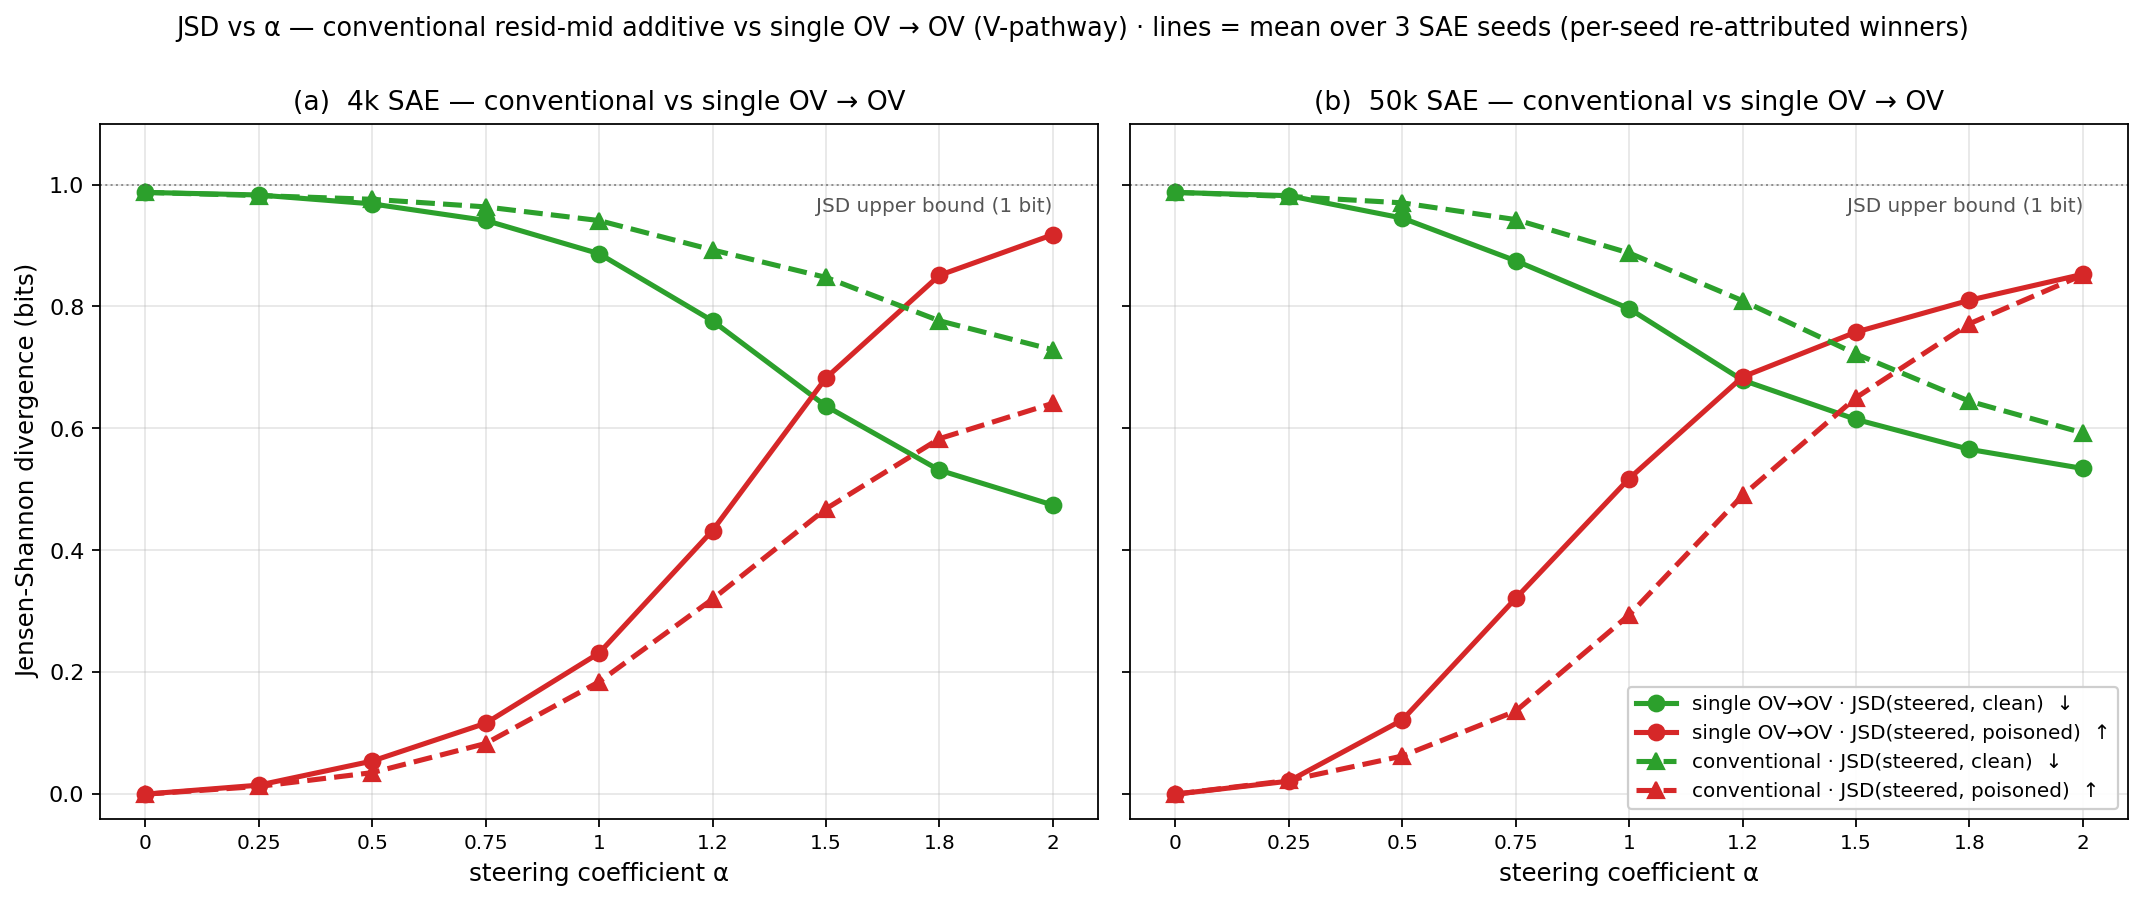
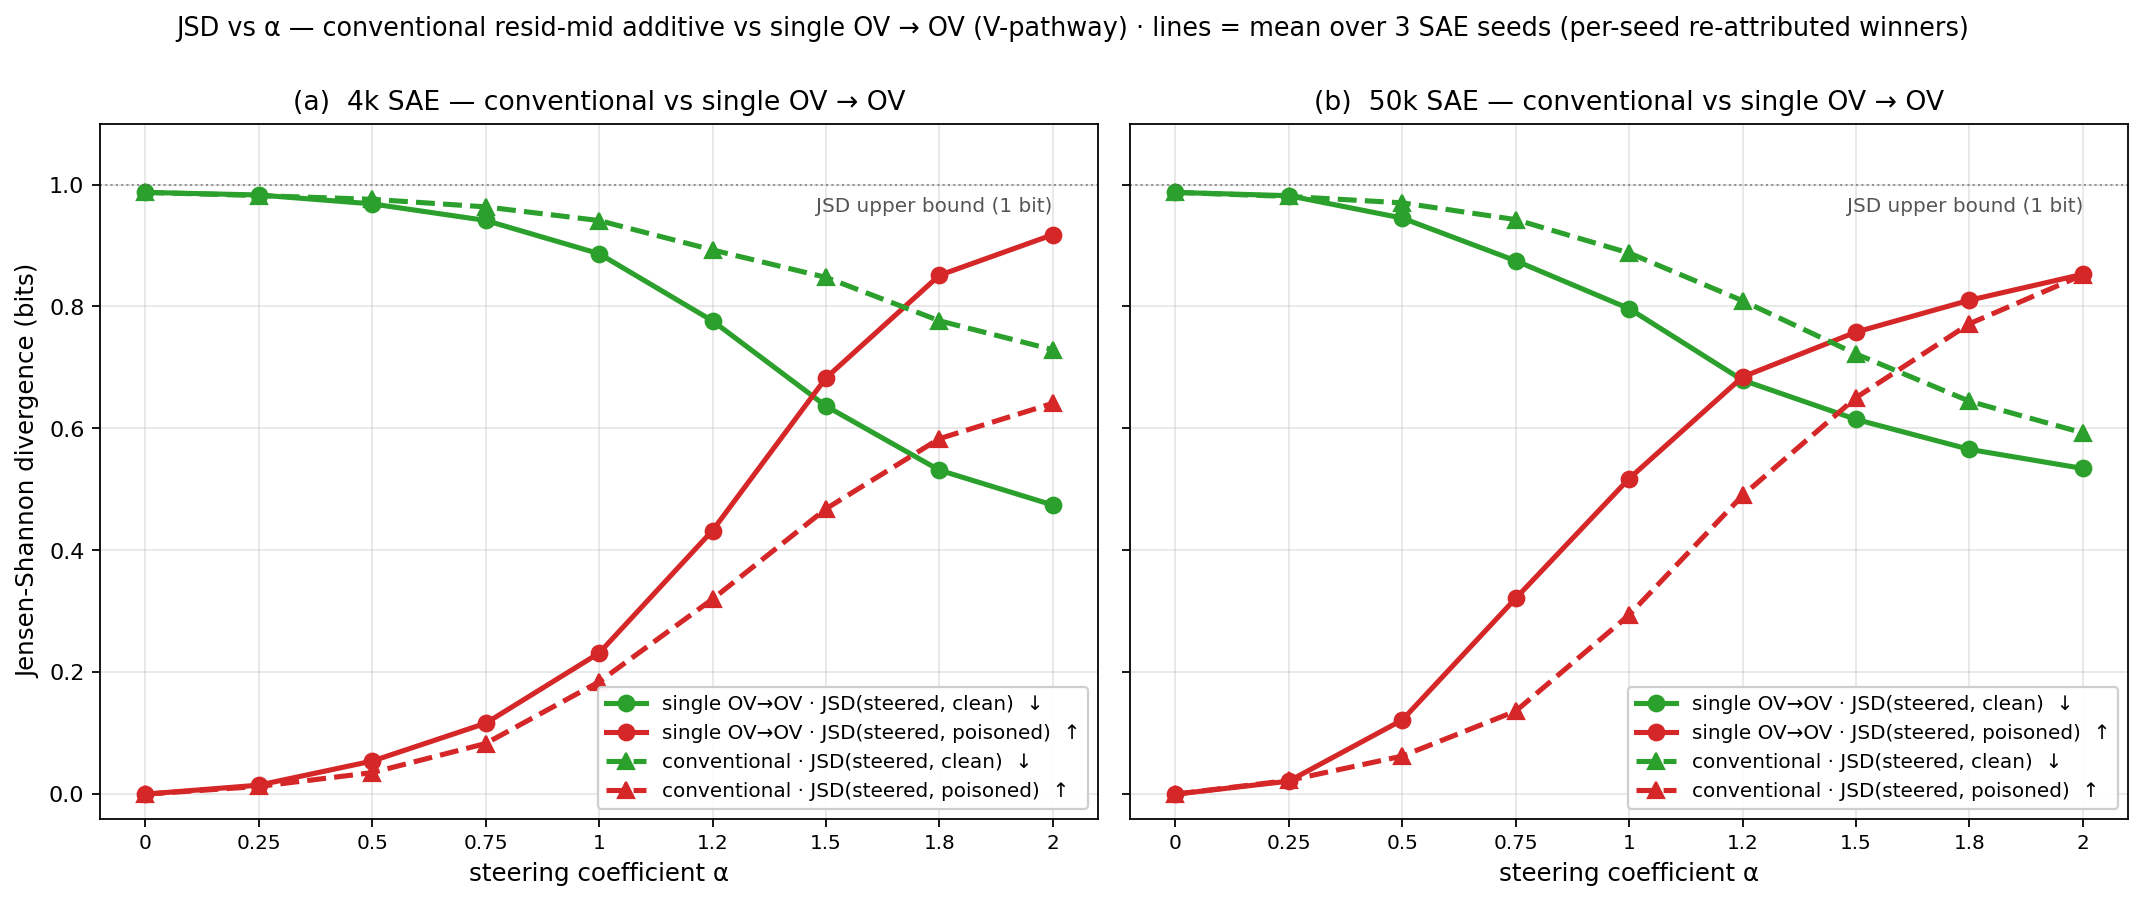
plot_jsd_overlay: legend in bottom-right of each panel

Changed region(s): [[0.2812, 0.745, 0.5, 0.9002]]

diff --git a/ketan_repl/scripts/plot_jsd_overlay.py b/ketan_repl/scripts/plot_jsd_overlay.py
@@ -79,15 +79,9 @@ def main() -> None:
         ax.set_xticks(alphas)
         ax.set_xticklabels([f"{a:.2g}" for a in alphas], fontsize=9)
         ax.set_xlabel("steering coefficient α", fontsize=11)
-        # legend handled once on axes[1] below — keep panels uncluttered
-        pass
+        ax.legend(loc="lower right", fontsize=9, frameon=True, framealpha=0.95)
 
     axes[0].set_ylabel("Jensen-Shannon divergence (bits)", fontsize=11)
-
-    # Single shared legend, anchored to the bottom-right corner of the right panel.
-    handles, labels = axes[0].get_legend_handles_labels()
-    axes[1].legend(handles, labels, loc="lower right", fontsize=9,
-                    frameon=True, framealpha=0.95)
 
     if args.title:
         suptitle = args.title
